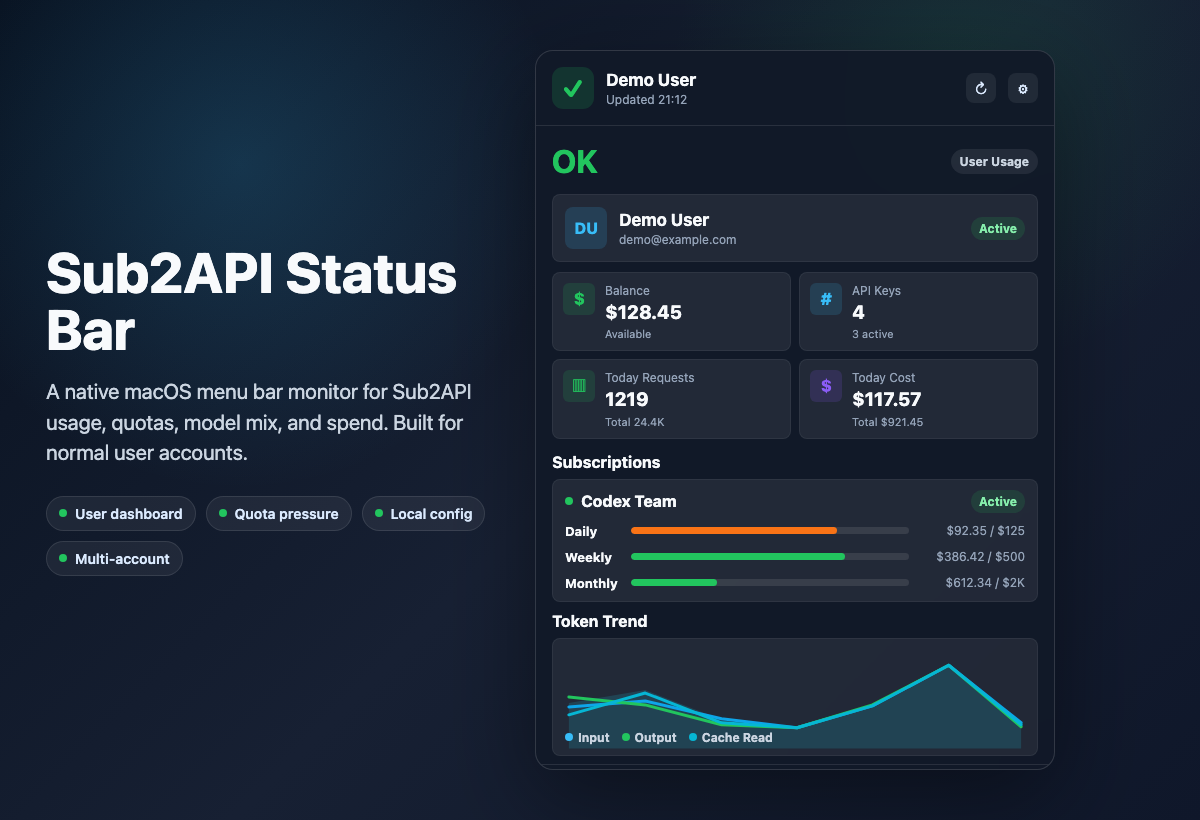
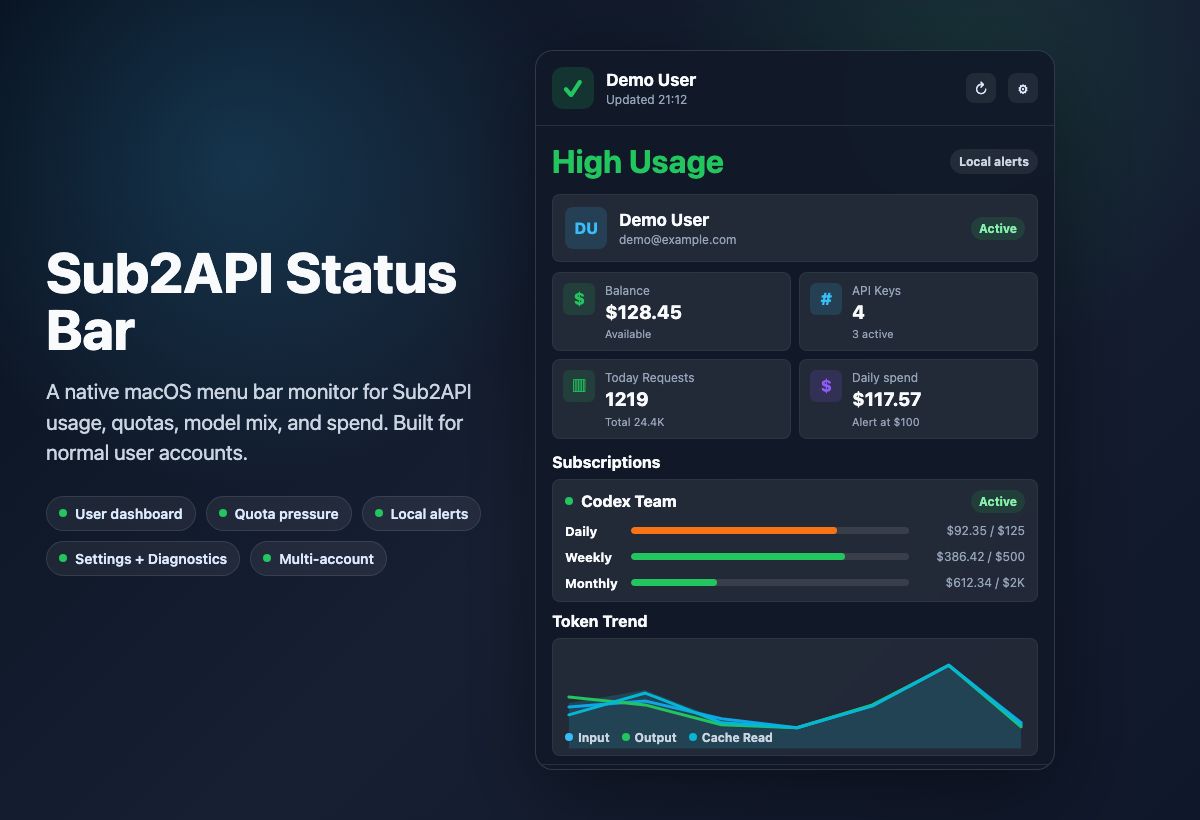
docs: verify product preview freshness

diff --git a/docs/assets/product-preview.html b/docs/assets/product-preview.html
@@ -431,7 +431,8 @@
       <div class="chips">
         <span class="chip"><span class="dot"></span>User dashboard</span>
         <span class="chip"><span class="dot"></span>Quota pressure</span>
-        <span class="chip"><span class="dot"></span>Local config</span>
+        <span class="chip"><span class="dot"></span>Local alerts</span>
+        <span class="chip"><span class="dot"></span>Settings + Diagnostics</span>
         <span class="chip"><span class="dot"></span>Multi-account</span>
       </div>
     </section>
@@ -450,8 +451,8 @@
 
       <div class="content">
         <div class="status-line">
-          <strong>OK</strong>
-          <span class="pill">User Usage</span>
+          <strong>High Usage</strong>
+          <span class="pill">Local alerts</span>
         </div>
 
         <div class="account">
@@ -478,7 +479,7 @@
           </div>
           <div class="card">
             <div class="glyph violet">$</div>
-            <div><div class="label">Today Cost</div><div class="value">$117.57</div><div class="caption">Total $921.45</div></div>
+            <div><div class="label">Daily spend</div><div class="value">$117.57</div><div class="caption">Alert at $100</div></div>
           </div>
         </div>
 
@@ -512,7 +513,8 @@
       </div>
 
       <div class="footer">
-        <span class="button">↗ Open</span>
+        <span class="button">⚙ Settings</span>
+        <span class="button">⧉ Copy Diagnostics</span>
         <span class="button">⏻ Quit</span>
       </div>
     </section>

diff --git a/docs/PRODUCT_REVIEW.md b/docs/PRODUCT_REVIEW.md
@@ -445,3 +445,18 @@ The only meaningful blockers for fully trusted macOS public distribution are App
 
 3. 提升
    - Configure `PUBLIC_RELEASE=true` in the repository only after Apple Developer ID secrets are ready, then prove a real tag run fails closed or notarizes successfully before publishing.
+
+### 2026-05-20 Cycle AD
+
+1. 审视
+   - Mature product repositories keep public screenshots aligned with the current product promise instead of letting marketing assets drift behind shipped behavior.
+   - The README preview existed, but it did not show the newer local alerts, Settings, or diagnostics surfaces, and the release gate did not verify preview freshness.
+
+2. 执行
+   - Added `scripts/verify-product-preview.sh` to validate the README preview reference, PNG dimensions, and HTML coverage of spend, token trends, subscriptions, local alerts, Settings, and diagnostics.
+   - Wired product preview verification into the release candidate gate.
+   - Refreshed `docs/assets/product-preview.html` and regenerated `docs/assets/product-preview.png` to include current productization features.
+   - Documented preview upkeep in README, release checklist, release issue template, release notes, and changelog.
+
+3. 提升
+   - After the next meaningful UI change, regenerate the preview as part of the release checklist and attach before/after visual evidence to the release issue.

diff --git a/docs/RELEASE_CHECKLIST.md b/docs/RELEASE_CHECKLIST.md
@@ -18,6 +18,7 @@
 - [x] One-command release candidate verification for tests, build, zip, DMG, and manifest
 - [x] Downloaded release asset verification for draft zip, DMG, checksums, manifest, and cask files
 - [x] Public release mode that fails tag builds unless Apple notarization credentials are complete
+- [x] Product preview asset verification for README image, dimensions, and current feature coverage
 - [x] GitHub release checklist issue template for tag, draft asset, checksum, manifest, DMG, and trust review
 - [x] Ad-hoc signing for local builds
 - [x] Notarization script ready for Apple credentials
@@ -41,7 +42,7 @@
 
 | Area | Current Status | Verification | Next Gate |
 | --- | --- | --- | --- |
-| App identity | Ready | `Resources/AppIcon.icns`, bundle metadata from `scripts/build-app.sh` | Keep screenshots current for each public release |
+| App identity | Ready | `Resources/AppIcon.icns`, bundle metadata from `scripts/build-app.sh`, and `scripts/verify-product-preview.sh` | Keep screenshots current for each public release |
 | User dashboard | Ready | `swift test` covers dashboard decoding, quota progress, status labels, menu bar summaries, and local alerts | Add anomaly or model-cost concentration insights after alert rules prove useful |
 | Local configuration | Ready | `swift test` covers config persistence, legacy decoding, and multi-account token storage | Revisit Keychain only if the product promise changes |
 | Menu bar maturity | Ready for v0.1.6 | Summary modes, section visibility, compact density, stale detection, and alert banners are covered by tests, build checks, and README copy | Verify compact layout manually before public release |
@@ -64,6 +65,12 @@ For the v0.1.6 productization pass:
 
 ```bash
 VERSION=v0.1.6 ./scripts/verify-release-candidate.sh
+```
+
+The release candidate gate also verifies the README product preview. After changing user-visible dashboard, alert, Settings, or diagnostics surfaces, update `docs/assets/product-preview.html`, regenerate `docs/assets/product-preview.png`, and run:
+
+```bash
+./scripts/verify-product-preview.sh
 ```
 
 When a `v*` tag is pushed, GitHub Actions runs the same checks and creates a draft GitHub Release using `docs/RELEASE_NOTES_<tag>.md`, for example `docs/RELEASE_NOTES_v0.1.6.md`. If `APPLE_ID`, `TEAM_ID`, `APP_SPECIFIC_PASSWORD`, and `SIGN_IDENTITY` secrets are all configured, tag builds run the notarized release gate. Draft releases are intentional until the package is reviewed and, when available, Developer ID signing and notarization are complete.

diff --git a/.github/ISSUE_TEMPLATE/release_checklist.md b/.github/ISSUE_TEMPLATE/release_checklist.md
@@ -18,6 +18,7 @@ assignees: ""
 - [ ] `VERSION` matches the intended tag.
 - [ ] `CHANGELOG.md` includes the release-visible changes.
 - [ ] `docs/RELEASE_NOTES_<tag>.md` exists and matches the asset set.
+- [ ] README product preview image reflects the current release-visible product surface.
 - [ ] Public trust posture is decided before tag creation.
 - [ ] Apple signing secrets are configured when publishing a trusted public release.
 - [ ] Repository variable `PUBLIC_RELEASE=true` is set when this tag is intended to become a public release.
@@ -25,6 +26,7 @@ assignees: ""
 ## Local Verification
 
 - [ ] `VERSION=<tag> ./scripts/verify-release-candidate.sh`
+- [ ] `./scripts/verify-product-preview.sh`
 - [ ] For trusted public release: `REQUIRE_NOTARIZATION=true VERSION=<tag> ./scripts/verify-release-candidate.sh`
 - [ ] Zip checksum verifies from `dist/`.
 - [ ] DMG checksum verifies from `dist/`.

diff --git a/README.md b/README.md
@@ -165,6 +165,8 @@ GitHub Actions runs the same checks on `main`, pull requests, tags, and manual w
 
 For contribution workflow, product standards, documentation expectations, and PR checks, see [CONTRIBUTING.md](CONTRIBUTING.md).
 
+The README preview is generated from `docs/assets/product-preview.html`. When user-visible product surfaces change, regenerate `docs/assets/product-preview.png` and run `./scripts/verify-product-preview.sh`.
+
 For tagged releases, open a GitHub Release Checklist issue before publishing the draft release. Set the repository variable `PUBLIC_RELEASE=true` only when tag builds must fail unless Apple signing and notarization secrets are configured.
 
 ## Support

diff --git a/docs/RELEASE_NOTES_v0.1.6.md b/docs/RELEASE_NOTES_v0.1.6.md
@@ -18,6 +18,7 @@ This release continues the MAGI productization pass. It makes usage pressure mor
 - Homebrew Cask draft generation and verification from the release manifest.
 - Downloaded release asset verification for draft zip, DMG, checksum, manifest, and cask files.
 - Public release mode that fails tag builds unless Apple signing and notarization secrets are complete.
+- Product preview asset verification for README image dimensions and current feature coverage.
 
 ## Verification
 
@@ -30,6 +31,7 @@ This release continues the MAGI productization pass. It makes usage pressure mor
 - `VERSION=v0.1.6 ./scripts/generate-release-manifest.sh`
 - `VERSION=v0.1.6 ./scripts/verify-release-manifest.sh`
 - `VERSION=v0.1.6 ./scripts/verify-release-candidate.sh`
+- `./scripts/verify-product-preview.sh`
 - `VERSION=v0.1.6 ./scripts/verify-downloaded-release.sh <download-directory>`
 - `PUBLIC_RELEASE=true GITHUB_REF_TYPE=tag REQUIRE_NOTARIZATION=auto VERSION=v0.1.6 ./scripts/verify-release-candidate.sh` when validating the public-release trust gate
 - `REQUIRE_NOTARIZATION=true VERSION=v0.1.6 ./scripts/verify-release-candidate.sh` when Apple signing credentials are available

diff --git a/CHANGELOG.md b/CHANGELOG.md
@@ -19,6 +19,7 @@
 - Added Homebrew Cask draft generation and verification from the release manifest.
 - Added downloaded release asset verification for draft zip, DMG, checksum, manifest, and cask files.
 - Added public release mode to fail tag builds unless Apple signing and notarization secrets are complete.
+- Added product preview asset verification and refreshed the README preview for alerts, Settings, and diagnostics.
 - Verified the release with `swift test`, `swift build`, `VERSION=v0.1.6 ./scripts/package-release.sh`, and `VERSION=v0.1.6 ./scripts/verify-release.sh`.
 
 ## v0.1.5